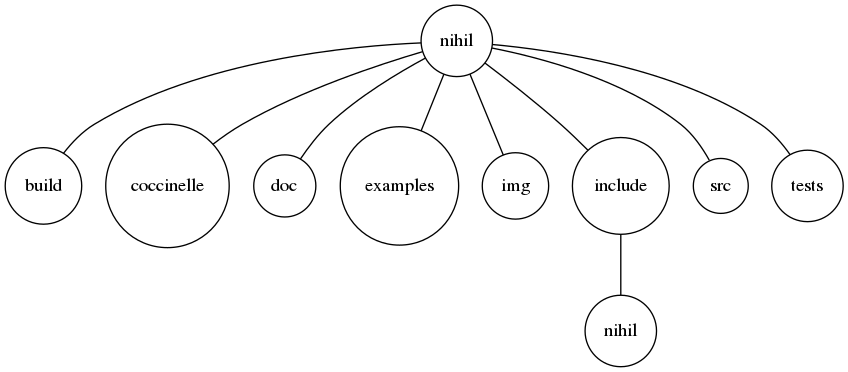
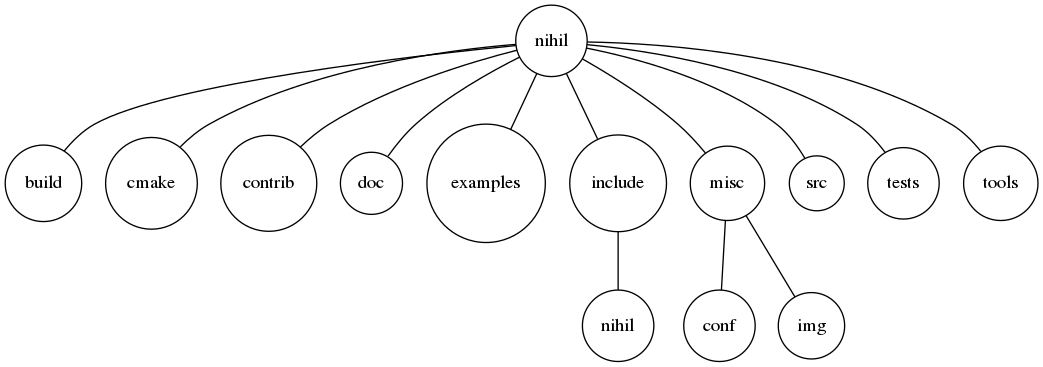
Change the default structure of subdirectories
- Modify the default subdirectories in 'subdirectories_set' of 'config' module
- Rename the 'skaff' function to 'skaff_drive' in 'driver' module
- Update the new renamed 'skaff_drive' test method in 'driver_test' module
- Update the 'output_tree' dot graph and its associated output

diff --git a/skaff/config.py b/skaff/config.py
@@ -776,7 +776,12 @@ class SkaffConfig:
         Sets the name(s) of the subdirectory(ies) within the project(s)' base
         directory(ies).
         Defaults to
-        {"build", "coccinelle", "doc", "examples", "img", "src", "tests"}
+        {
+        "build", "cmake", "contrib",
+        "doc", "examples", "include",
+        "misc", "misc" + os.sep + "conf", "misc" + os.sep + "img",
+        "src", "tests", "tools"
+        }
         if left as empty or 'None'.
         Platform-dependent path separator will be appended if missing.
         This member function is called by the constructor by default.
@@ -785,15 +790,20 @@ class SkaffConfig:
         containing instance of 'str'(s).
         """
         if None == subdirectories:
-            self.__config["subdirectories"] = set((
+            self.__config["subdirectories"] = {
                 "build",
-                "coccinelle",
+                "cmake",
+                "contrib",
                 "doc",
                 "examples",
-                "img",
+                "include",
+                "misc",
+                "misc" + os.sep + "conf",
+                "misc" + os.sep + "img",
                 "src",
-                "tests"
-            ))
+                "tests",
+                "tools"
+            }
             return
 
         if not isinstance(subdirectories, collections.Iterable):

diff --git a/skaff/__init__.py b/skaff/__init__.py
@@ -1,5 +1,10 @@
 #!/usr/bin/env python3
 
+"""
+A collection of extensible tools used for project scaffolding that comes with
+default C/C++ support.
+"""
+
 # -------------------------------- COPYRIGHT ----------------------------------
 # Copyright © 2016 Jiahui Xie
 # All rights reserved.
@@ -44,6 +49,7 @@ __version__ = "1.0"
 # "
 # from skaff import getkey
 # "
+# (only used in 'driver_test' unit test module to access private functions)
 # from breaking -- DEPRECATED
 from skaff.clitools import getkey
 from skaff.clitools import timeout
@@ -53,7 +59,7 @@ from skaff.clitools import SmartFormatter
 
 from skaff.config import SkaffConfig
 
-from skaff.driver import skaff
+from skaff.driver import skaff_drive
 from skaff.driver import skaff_version_get
 from skaff.driver import _arguments_check
 from skaff.driver import _conf_doc_prompt

diff --git a/skaff/manualtools.py b/skaff/manualtools.py
@@ -23,11 +23,14 @@ def manual_check(manual):
 
     Files that are considered to be unix manual page format must end with file
     extensions that are solely consists of digits 1 to 9 excluding 0.
+
+    NOTE: Man-page section 9 is a non-POSIX standard (convention adopted by
+    both Linux and FreeBSD) commonly used for documenting "Kernel Routines".
     """
     if not isinstance(manual, str):
         raise TypeError("'manual' argument must be of 'str' type")
 
-    # The "lazy evulation" property of the builtin 'all' function ensures that
+    # The "lazy evaluation" property of the builtin 'all' function ensures that
     # the second lambda would NEVER be evaluated just in case 'x' is a string
     # of zero length
     qualifiers = [

diff --git a/tests/driver_test.py b/tests/driver_test.py
@@ -31,14 +31,14 @@ class TestDriver(unittest.TestCase):
         # function a new 'SkaffConfig' instance is created.
         self.tmp_dir.cleanup()
 
-    def test_skaff(self):
+    def test_skaff_drive(self):
         # Fail due to wrong type for the 'config' argument
         with self.assertRaises(ValueError):
-            skaff.skaff(None)
+            skaff.skaff_drive(None)
 
         # Fail due to pre-existing directory
         with self.assertRaises(FileExistsError):
-            skaff.skaff(self.config)
+            skaff.skaff_drive(self.config)
 
     def test_skaff_version_get(self):
         self.assertTrue(skaff.skaff_version_get())

diff --git a/skaff/cli.py b/skaff/cli.py
@@ -14,7 +14,7 @@ from skaff.clitools import (
     SmartFormatter
 )
 from skaff.driver import (
-    skaff,
+    skaff_drive,
     skaff_version_get
 )
 # --------------------------------- MODULES -----------------------------------
@@ -78,7 +78,7 @@ def main():
         skaff_cli_dict[attr] = getattr(args, attr)
 
     config = SkaffConfig(**skaff_cli_dict)
-    skaff(config)
+    skaff_drive(config)
 # -------------------------------- FUNCTIONS ----------------------------------
 
 

diff --git a/skaff/driver.py b/skaff/driver.py
@@ -30,7 +30,7 @@ from skaff import __version__
 
 
 # -------------------------------- FUNCTIONS ----------------------------------
-def skaff(config):
+def skaff_drive(config):
     """
     Creates all the necessary subdirectories in addition to the project root.
     """
